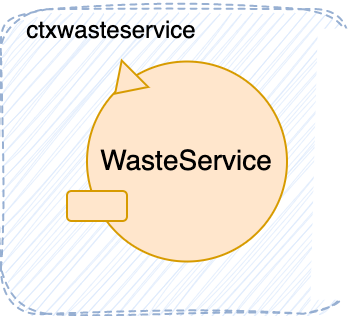
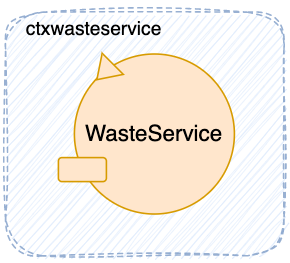
Sprint 0 - UserDocs: Refactoring V2 (WasteService)

diff --git a/Sprint-0/userDocs/Sprint0-LLA.html b/Sprint-0/userDocs/Sprint0-LLA.html
@@ -22,7 +22,8 @@
     </ul>
 </nav>
 </div>
-<div class="body">
+
+
 <h2>Introduction</h2>
 <div class="remark">
 <p>Progetto finale di ISS che consiste nel realizzare un sistema di gestione dei rifiuti in cui un robot svolge il compito
@@ -354,8 +355,8 @@ QActor wasteservice context ctxwasteservice{
 	} Goto waiting
 }
 </code></pre>
-        <p><a target="_blank" href="https://github.com/LucaLand/WasteService22-LLA/blob/dev/sprint-0/Sprint-0/Qak_Models/WasteService.qak"> Metamodello QAK WasteService</a></p>
-<!--        <img src="./img/WasteService.png" alt="WasteService Actor" style="width: 350px">-->
+        <p><a target="_blank" href="https://github.com/LucaLand/WasteService22-LLA/blob/dev/sprint-0/Sprint-0/Qak_Models/WasteService.qak">WasteService.qak</a></p>
+        <img src="./img/WasteService.png" alt="WasteService Actor" style="width: 200px">
         
         
         <h4>Smart Device</h4>
